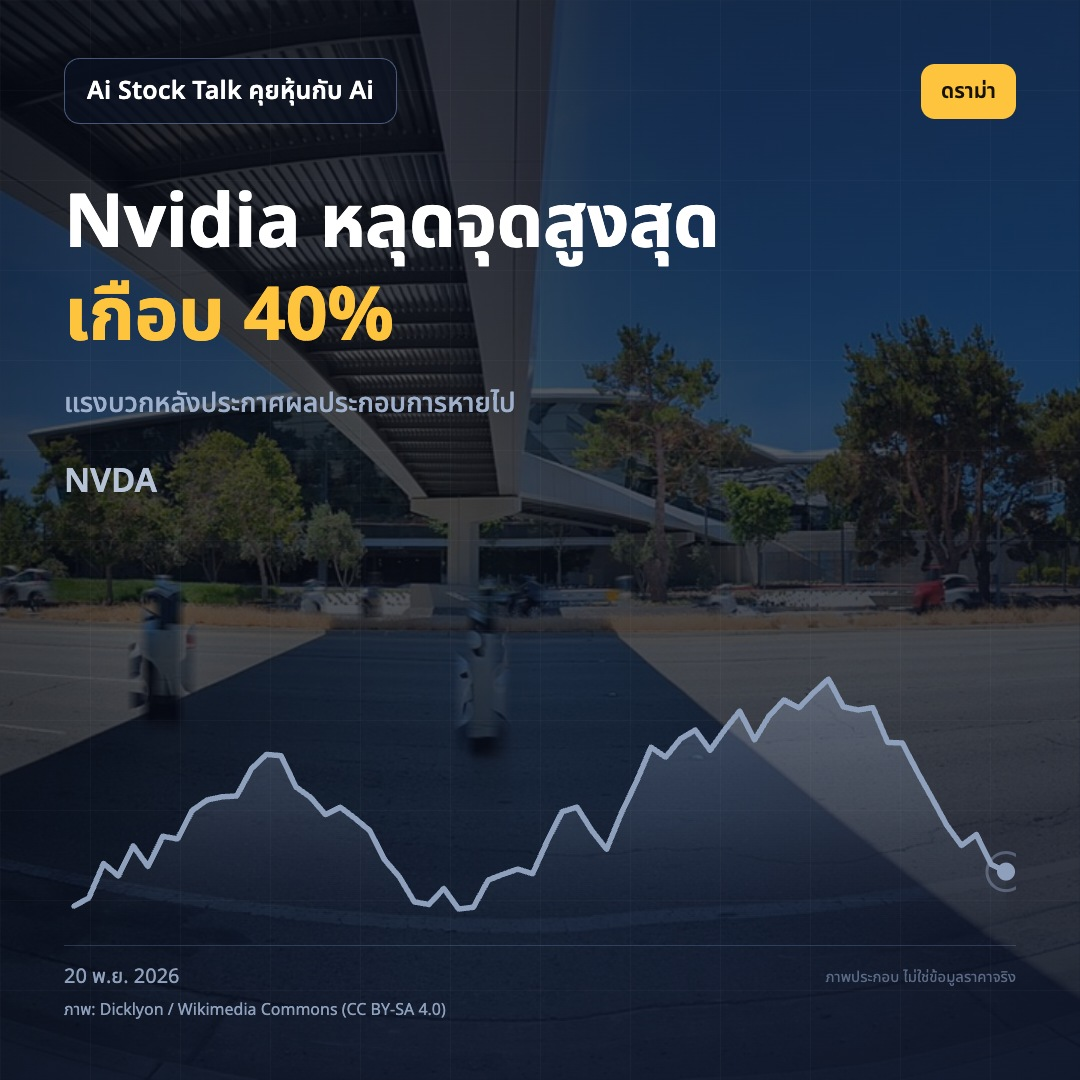
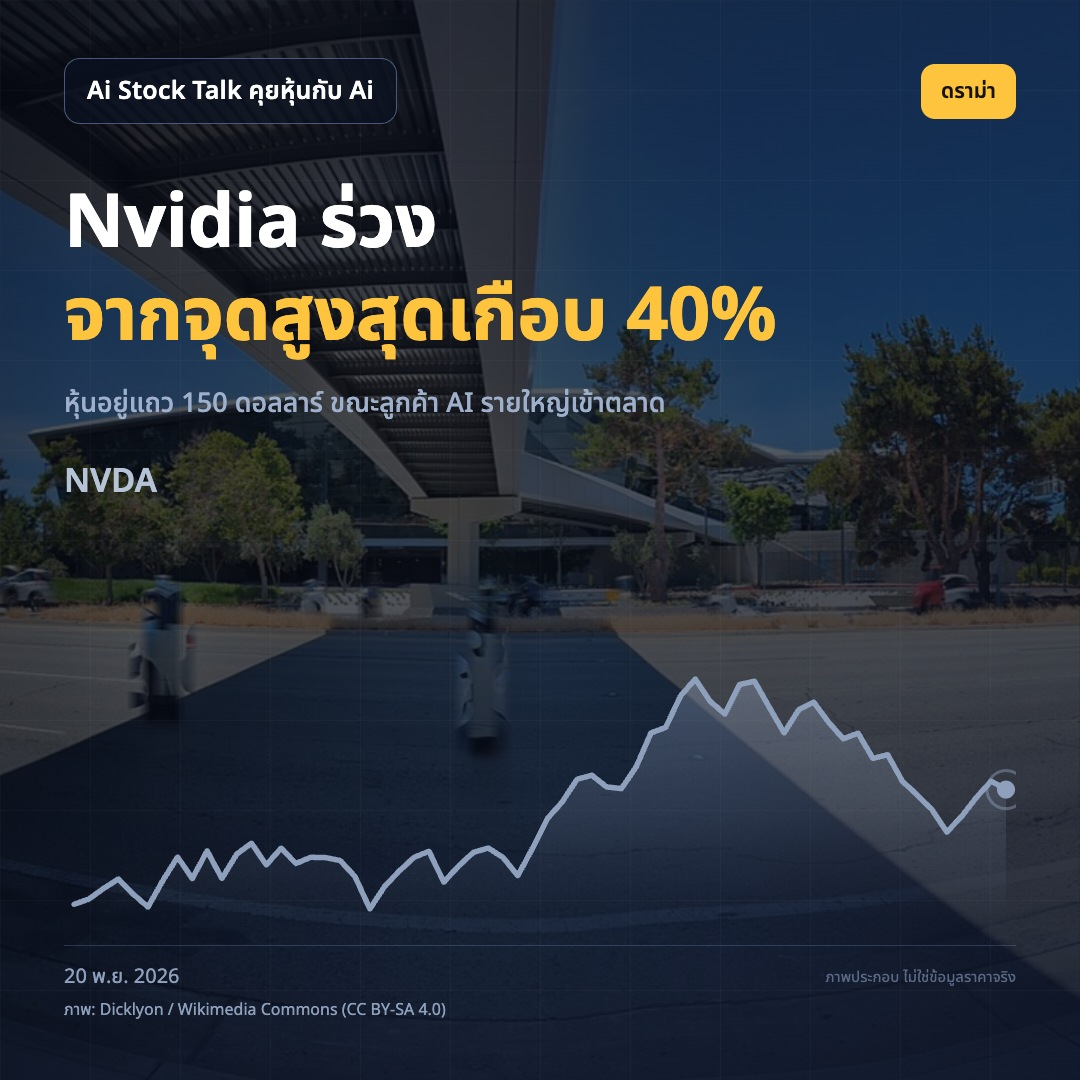
radar: 2026-11-20

diff --git a/docs/2026-11-20.html b/docs/2026-11-20.html
@@ -16,72 +16,72 @@
 <h1>Ai Stock Talk คุยหุ้นกับ Ai — 20 พ.ย. 2026</h1>
 <p class="meta">เผยแพร่ 2026-11-20</p>
 <img class="cover" src="img/cover-2026-11-20.jpg" alt="ภาพปกข่าว 2026-11-20">
-<article><h2>1. Anthropic เข้าตลาดวันแรก หุ้นปิดบวก 17%</h2>
+<article><h2>1. Anthropic เข้าตลาดวันแรก ปิดบวก 17%</h2>
 <p><img alt="cover" src="img/post-1-cover-2026-11-20.jpg" /></p>
-<p>Anthropic เข้า Nasdaq วันแรก ปิดบวก 17%
-หุ้น ANT ตั้งราคาเสนอขายที่ 83 ดอลลาร์ ระหว่างวันขึ้นสูงสุด 111.50 ดอลลาร์ ก่อนปิดที่ 97.17 ดอลลาร์
-มูลค่าบริษัทตามราคาหุ้นอยู่ราว 1.27 ล้านล้านดอลลาร์ และกลายเป็นบริษัทมูลค่าสูงอันดับ 12 ของโลก
-การเข้าตลาดครั้งนี้ทำให้หุ้นบริษัทผู้พัฒนาโมเดล AI มีราคาซื้อขายให้เทียบกับหุ้นเทคขนาดใหญ่โดยตรง
-ทำไมต้องสน: คนที่ถือหุ้น AI ต้องดูว่าตลาดให้ค่ากับผู้พัฒนาโมเดลอย่างไร และหุ้นที่ถืออยู่มีความคาดหวังสูงแค่ไหน
-คุณคิดว่าราคา ANT วันแรกสะท้อนโอกาสของ AI หรือความคาดหวังที่สูงเกินไป?
-ที่มา: https://www.blognone.com/node/152212</p>
-<h1>Anthropic #หุ้นAI #หุ้นสหรัฐ</h1>
+<p>Anthropic ปิดวันแรกที่ 97.17 ดอลลาร์ บวก 17%
+บริษัทเข้าซื้อขายใน Nasdaq ด้วยชื่อย่อ ANT หลังตั้งราคาขายหุ้นที่ 83 ดอลลาร์ และระหว่างวันขึ้นไปสูงสุด 111.50 ดอลลาร์
+ราคาปิดทำให้บริษัทมีมูลค่าราว 1.27 ล้านล้านดอลลาร์ ขึ้นเป็นบริษัทที่มีมูลค่าสูงอันดับ 12 ของโลก
+แต่หุ้นเทคโนโลยีโดยรวมไม่ได้ขึ้นตามการเปิดตัวครั้งนี้
+ทำไมต้องสน: นักลงทุนไทยที่ถือหุ้นสหรัฐได้เห็นราคาที่ตลาดยอมจ่ายให้บริษัท AI รายใหญ่แล้ว ขณะเดียวกันก็ต้องดูว่าความสนใจใน ANT จะส่งต่อถึงหุ้น AI ตัวอื่นหรือไม่
+ถ้าคุณถือหุ้น AI อยู่ การเข้าตลาดของ ANT ทำให้คุณอยากเพิ่มหรือทบทวนน้ำหนักลงทุน?
+ที่มา: https://www.blognone.com/node/152212 https://www.marketwatch.com/story/after-anthropics-bittersweet-ipo-heres-what-lies-ahead-8c32fdb7</p>
+<h1>หุ้นAI #Anthropic #หุ้นสหรัฐ</h1>
 <p><em>ภาพ: ESO/P. Horálek / Wikimedia Commons (CC BY 4.0)</em></p>
-<h2>2. Nvidia ต่ำกว่าจุดสูงสุดเกือบ 40% ขณะ Anthropic เข้าตลาด</h2>
+<h2>2. Nvidia ใกล้ 150 ดอลลาร์ หลังร่วงจากจุดสูงสุดเกือบ 40%</h2>
 <p><img alt="cover" src="img/post-2-cover-2026-11-20.jpg" /></p>
-<p>Nvidia อยู่แถว 150 ดอลลาร์ หลังหลุดจากจุดสูงสุดเกือบ 40%
-หุ้น Nvidia ลดลงจากจุดสูงสุดเมื่อ 6 ตุลาคมเกือบ 40% ตามรายงานที่ระบุว่าราคาอยู่แถว 150 ดอลลาร์
-แรงบวกช่วงสั้นหลังประกาศผลประกอบการหายไปภายในวันพฤหัสบดี
-ในเวลาเดียวกัน หุ้น Anthropic เริ่มซื้อขายใน Nasdaq ที่ 111.50 ดอลลาร์ สูงกว่าราคาเสนอขาย 34%
-ทำไมต้องสน: นักลงทุนที่ถือหุ้นชิป AI กำลังเห็นตลาดให้ราคาผู้พัฒนาโมเดลกับผู้ขายชิปต่างกัน แม้ทั้งสองอยู่ในกระแสเดียวกัน
-ในพอร์ตของคุณ หุ้นชิปยังมีน้ำหนักเท่าเดิมหรือเปลี่ยนไปแล้ว?
+<p>Nvidia ร่วงจากจุดสูงสุดเกือบ 40%
+ราคาหุ้นในวันพฤหัสบดีอยู่แถว 150 ดอลลาร์ หลังจากทำจุดสูงสุดไว้เมื่อวันที่ 6 ตุลาคม
+แรงขยับขึ้นช่วงสั้นหลังรายงานผลประกอบการไตรมาสสามหายไป ขณะที่ Anthropic ซึ่งเป็นลูกค้ารายใหญ่ของ Nvidia เพิ่งเข้าซื้อขายใน Nasdaq
+ภาพนี้เกิดขึ้นในช่วงที่ตลาดกำลังจับตาความปั่นป่วนด้านผู้นำของ Nvidia
+ทำไมต้องสน: คนถือกองทุนหุ้นสหรัฐหรือหุ้น AI ควรดูน้ำหนัก Nvidia ในพอร์ต เพราะหุ้นผู้ขายชิปกับลูกค้า AI กำลังถูกตลาดให้ราคาต่างกัน
+ถ้าพอร์ตคุณมี Nvidia อยู่ การลดลงจากจุดสูงสุดครั้งนี้เปลี่ยนมุมมองคุณหรือยัง?
 ที่มา: https://www.theverge.com/ai-artificial-intelligence/1038063/nvidia-stock-market-price-earnings</p>
 <h1>Nvidia #หุ้นชิป #หุ้นAI</h1>
 <p><em>ภาพ: Dicklyon / Wikimedia Commons (CC BY-SA 4.0)</em></p>
-<h2>3. AMD ปิดลบมากกว่า 7% หลังเจอข้อกล่าวหาเรื่องจีน</h2>
+<h2>3. สหรัฐอนุมัติขายชิป AI ให้บริษัทจีนมากกว่า 879,000 ชิ้น</h2>
 <p><img alt="cover" src="img/post-3-cover-2026-11-20.jpg" /></p>
-<p>AMD ปิดลบมากกว่า 7% หลังถูกกล่าวหาเรื่องบริษัทจีนในบัญชีดำ
-ผู้ขายชอร์ตกล่าวหาว่าพบเฟิร์มแวร์ของ AMD ในบริษัทจีนที่อยู่ในบัญชีดำ
-AMD ระบุว่าบริษัทปฏิบัติตามกฎหมายสหรัฐฯ ขณะที่หุ้นปิดลดลงมากกว่า 7%
-ข้อมูลในรายการข่าวยังเป็นข้อกล่าวหาและคำชี้แจงของบริษัท ยังไม่มีผลสรุปว่าบริษัททำผิด
-ทำไมต้องสน: ความเสี่ยงด้านจีนและข้อจำกัดการส่งออกอาจกระทบการประเมินมูลค่าหุ้นชิป แม้ก่อนมีข้อยุติ
-ถ้าถือ AMD อยู่ คุณจะรอข้อมูลอะไรเพิ่มเติมก่อนตัดสินใจ?
-ที่มา: https://www.cnbc.com/2026/11/19/amd-falls-on-short-seller-report-of-alleged-china-exposure.html</p>
-<h1>AMD #หุ้นชิป #ตลาดหุ้นสหรัฐ</h1>
-<p><em>ภาพ: Bruno Corpet (Quoique) / Wikimedia Commons (CC BY-SA 3.0)</em></p>
-<h2>4. สหรัฐฯ อนุมัติขายชิป AI ให้บริษัทจีนกว่า 879,000 ตัว</h2>
-<p><img alt="cover" src="img/post-4-cover-2026-11-20.jpg" /></p>
-<p>สหรัฐฯ อนุมัติขายชิป AI ให้บริษัทจีนมากกว่า 879,000 ตัว
-สมาชิกสภาคองเกรสระบุว่ากระทรวงพาณิชย์สหรัฐฯ อนุมัติการขายชิป AI จำนวนดังกล่าว
-ขณะเดียวกัน สมาชิกสภากำลังผลักดันกฎหมายเพื่อเพิ่มความเข้มงวดของการควบคุมส่งออกชิปไปจีน
-ข่าวนี้วางโอกาสขายชิปกับความเสี่ยงด้านกฎระเบียบไว้ในเรื่องเดียวกัน
-ทำไมต้องสน: คนถือหุ้นผู้ผลิตชิปต้องติดตามว่าการอนุมัติที่มีอยู่และกฎใหม่จะกำหนดตลาดจีนอย่างไร
-คุณคิดว่าปัจจัยไหนสำคัญกว่าต่อหุ้นชิปในระยะต่อไป ยอดขายหรือความเข้มงวดของกฎ?
+<p>สหรัฐอนุมัติขายชิป AI ให้จีนกว่า 879,000 ชิ้น
+สมาชิกสภาคองเกรสระบุว่ากระทรวงพาณิชย์สหรัฐอนุมัติการขายชิป AI ให้บริษัทจีนในจำนวนดังกล่าว
+ขณะเดียวกัน สมาชิกสภาบางส่วนกำลังผลักดันกฎหมายเพื่อคุมการส่งออกชิปไปจีนให้เข้มงวดขึ้น หลังเกิดประเด็นเกี่ยวกับ Jensen Huang
+การอนุมัติที่เกิดขึ้นกับข้อเสนอให้เพิ่มข้อจำกัดกำลังเดินไปพร้อมกัน
+ทำไมต้องสน: คนถือหุ้นชิปต้องติดตามทิศทางกฎส่งออก เพราะกฎนี้เกี่ยวข้องโดยตรงกับการขายชิป AI ให้ลูกค้าในจีน
+คุณคิดว่าประเด็นนี้ควรมีน้ำหนักแค่ไหนเวลาประเมินหุ้นชิปในพอร์ต?
 ที่มา: https://www.cnbc.com/2026/11/19/nvidia-amd-china-chip-sales-congress.html</p>
-<h1>ชิปAI #หุ้นชิป #จีน</h1>
+<h1>ชิปAI #หุ้นชิป #จีนสหรัฐ</h1>
 <p><em>ภาพ: Dicklyon / Wikimedia Commons (CC BY-SA 4.0)</em></p>
-<h2>5. หุ้นสหรัฐฯ ลงครบ 11 กลุ่มอุตสาหกรรม หุ้นไซเบอร์สวนทาง</h2>
+<h2>4. AMD ปิดร่วงกว่า 7% หลังข้อกล่าวหาเรื่องจีน</h2>
+<p><img alt="cover" src="img/post-4-cover-2026-11-20.jpg" /></p>
+<p>AMD ปิดร่วงกว่า 7% หลังรายงานผู้ขายชอร์ต
+ผู้ขายชอร์ตกล่าวหาว่าพบเฟิร์มแวร์ของ AMD ในบริษัทจีนที่อยู่ในบัญชีดำ
+AMD ระบุว่าบริษัทปฏิบัติตามกฎหมายสหรัฐ ส่วนข้อกล่าวหาดังกล่าวยังเป็นข้อกล่าวหาจากรายงานผู้ขายชอร์ต
+ราคาหุ้นที่ลดลงสะท้อนว่าตลาดให้ความสำคัญกับประเด็นการขายเทคโนโลยีให้จีน
+ทำไมต้องสน: นักลงทุนไทยที่ถือ AMD หรือกองทุนหุ้นชิปควรติดตามทั้งข้อกล่าวหาและคำชี้แจงของบริษัท ก่อนประเมินว่าความเสี่ยงนี้กระทบพอร์ตอย่างไร
+เมื่อข้อมูลสองฝ่ายยังต่างกัน คุณจะรอหลักฐานเพิ่มหรือปรับน้ำหนักหุ้น AMD ตอนนี้?
+ที่มา: https://www.cnbc.com/2026/11/19/amd-falls-on-short-seller-report-of-alleged-china-exposure.html</p>
+<h1>AMD #หุ้นชิป #หุ้นสหรัฐ</h1>
+<p><em>ภาพ: Bruno Corpet (Quoique) / Wikimedia Commons (CC BY-SA 3.0)</em></p>
+<h2>5. SoftBank เจอวันแย่สุดในกว่า 2 ปี หลังหุ้น AI เอเชียร่วง</h2>
 <p><img alt="cover" src="img/post-5-cover-2026-11-20.jpg" /></p>
-<p>หุ้นสหรัฐฯ ลงครบ 11 กลุ่ม แต่หุ้นไซเบอร์สวนตลาด
-ดัชนี S&amp;P 500 มีทั้ง 11 กลุ่มอุตสาหกรรมปรับลง และ 10 กลุ่มลดลงมากกว่า 1%
-หุ้นกลุ่มไซเบอร์ซีเคียวริตี้กลับยืนสวนทางความอ่อนแรงของตลาด
-ภาพนี้เกิดในวันที่หุ้น Anthropic เข้าตลาด แต่การเปิดตัวดังกล่าวไม่ได้พาหุ้นเทคทั้งกลุ่มขึ้นตาม
-ทำไมต้องสน: คนไทยที่ลงทุนผ่านกองทุนหุ้นสหรัฐฯ หรือถือหุ้นเทคหลายตัว อาจเจอแรงกดดันพร้อมกันจากตลาดวงกว้าง
-คุณมองหุ้นไซเบอร์เป็นจุดพักเงิน หรืออยากรอดูตลาดอีกวัน?
-ที่มา: https://www.marketwatch.com/story/these-were-the-only-stocks-that-rose-amid-the-stock-markets-wipeout-thursday-1eaf32ba?mod=mw_rss_topstories https://www.marketwatch.com/story/after-anthropics-bittersweet-ipo-heres-what-lies-ahead-8c32fdb7?mod=mw_rss_topstories</p>
-<h1>หุ้นสหรัฐ #หุ้นไซเบอร์ #พอร์ตลงทุน</h1>
+<p>SoftBank เจอวันแย่สุดในกว่า 2 ปี
+หุ้นเทคโนโลยีเอเชียปรับลงตามแรงขายหุ้น AI หลังดัชนี Nasdaq ซึ่งมีหุ้นเทคโนโลยีจำนวนมาก ร่วงมากกว่า 2% ในคืนก่อนหน้า
+แรงขายเกิดขึ้นหลัง Anthropic เข้าซื้อขายในตลาดหุ้นสหรัฐซึ่งมีผู้จับตาอย่างมาก
+การเปิดตัวของหุ้น AI รายใหญ่จึงไม่ได้ทำให้หุ้นเทคโนโลยีเอเชียปรับขึ้นตาม
+ทำไมต้องสน: นักลงทุนไทยที่ถือกองทุนหุ้นเอเชียหรือกองทุนธีม AI ควรดูว่าพอร์ตมีหุ้นเทคโนโลยีเอเชียมากเพียงใด เมื่อแรงขายจากสหรัฐส่งต่อมาถึงภูมิภาค
+พอร์ตของคุณมีหุ้น AI ฝั่งเอเชียมากกว่าฝั่งสหรัฐหรือเปล่า?
+ที่มา: https://www.cnbc.com/2026/11/20/softbank-ai-tech-stocks-slide-anthropic-debut.html</p>
+<h1>SoftBank #หุ้นAI #หุ้นเอเชีย</h1>
 <p><em>ภาพ: Diliff / Wikimedia Commons (CC BY 2.5)</em></p>
-<h2>6. ผู้ร่วมก่อตั้ง CoreWeave ลงเงิน 30 ล้านดอลลาร์ในพันธบัตรบริษัท</h2>
+<h2>6. หุ้นสหรัฐลงครบ 11 กลุ่ม แต่หุ้นไซเบอร์สวนตลาด</h2>
 <p><img alt="cover" src="img/post-6-cover-2026-11-20.jpg" /></p>
-<p>ผู้ร่วมก่อตั้ง CoreWeave ลงเงิน 30 ล้านดอลลาร์ในพันธบัตรบริษัท
-Brian Venturo ผู้ร่วมก่อตั้ง CoreWeave เลือกเข้าซื้อพันธบัตรของบริษัทที่ถูกกดดันด้านราคา
-รายงานระบุว่าโดยปกติผู้บริหารมักซื้อหุ้นเพื่อส่งสัญญาณความเชื่อมั่น แต่ครั้งนี้เขาเลือกตลาดตราสารหนี้
-ความเคลื่อนไหวเกิดขึ้นท่ามกลางความกังวลของตลาดต่อธุรกิจ AI
-ทำไมต้องสน: คนที่ลงทุนในบริษัทโครงสร้างพื้นฐาน AI ควรติดตามต้นทุนเงินทุนและความเชื่อมั่นในหนี้ควบคู่ราคาหุ้น
-คุณคิดว่าการเลือกซื้อพันธบัตรแทนหุ้นส่งสัญญาณอะไร?
-ที่มา: https://www.marketwatch.com/story/a-coreweave-co-founder-just-made-an-unconventional-30-million-wager-on-its-battered-bonds-5586b0e9?mod=mw_rss_topstories</p>
-<h1>CoreWeave #หุ้นAI #พันธบัตร</h1>
-<p><em>ภาพ: Marek Ślusarczyk (Tupungato) Photo portfolio / Wikimedia Commons (CC BY 3.0)</em></p></article>
+<p>หุ้นสหรัฐลงครบ 11 กลุ่ม หุ้นไซเบอร์สวนทาง
+ตลาดหุ้นสหรัฐในวันพฤหัสบดีอ่อนตัวทั่วทั้ง 11 กลุ่มธุรกิจของดัชนี S&amp;P 500
+ในจำนวนนั้น 10 กลุ่มลดลงมากกว่า 1% แต่หุ้นด้านความปลอดภัยไซเบอร์ปรับขึ้นสวนแรงขาย
+นี่เป็นภาพตลาดที่การลงไม่ได้จำกัดอยู่แค่หุ้น AI หรือหุ้นชิป
+ทำไมต้องสน: คนไทยที่ถือกองทุนหุ้นสหรัฐควรดูทั้งภาพรวมตลาดและหุ้นที่พอร์ตถือจริง เพราะการกระจายลงทุนตามกลุ่มธุรกิจอาจยังเจอวันที่หลายกลุ่มลงพร้อมกัน
+เวลาตลาดลงกว้างแบบนี้ คุณดูดัชนีรวมก่อนหรือเปิดดูหุ้นแต่ละตัวในพอร์ต?
+ที่มา: https://www.marketwatch.com/story/these-were-the-only-stocks-that-rose-amid-the-stock-markets-wipeout-thursday-1eaf32ba?mod=mw_rss_topstories</p>
+<h1>หุ้นสหรัฐ #ตลาดหุ้น #หุ้นไซเบอร์</h1>
+<p><em>ภาพ: Diliff / Wikimedia Commons (CC BY 2.5)</em></p></article>
 <footer>
   สร้างอัตโนมัติจาก Horizon AI News Radar · <a href="https://tstevy3a.github.io/horizon-ai-radar/">หน้าแรก</a><br>
   แหล่งข่าว: Hacker News, TechCrunch, The Verge, Ars Technica, CNBC, MarketWatch, Blognone
